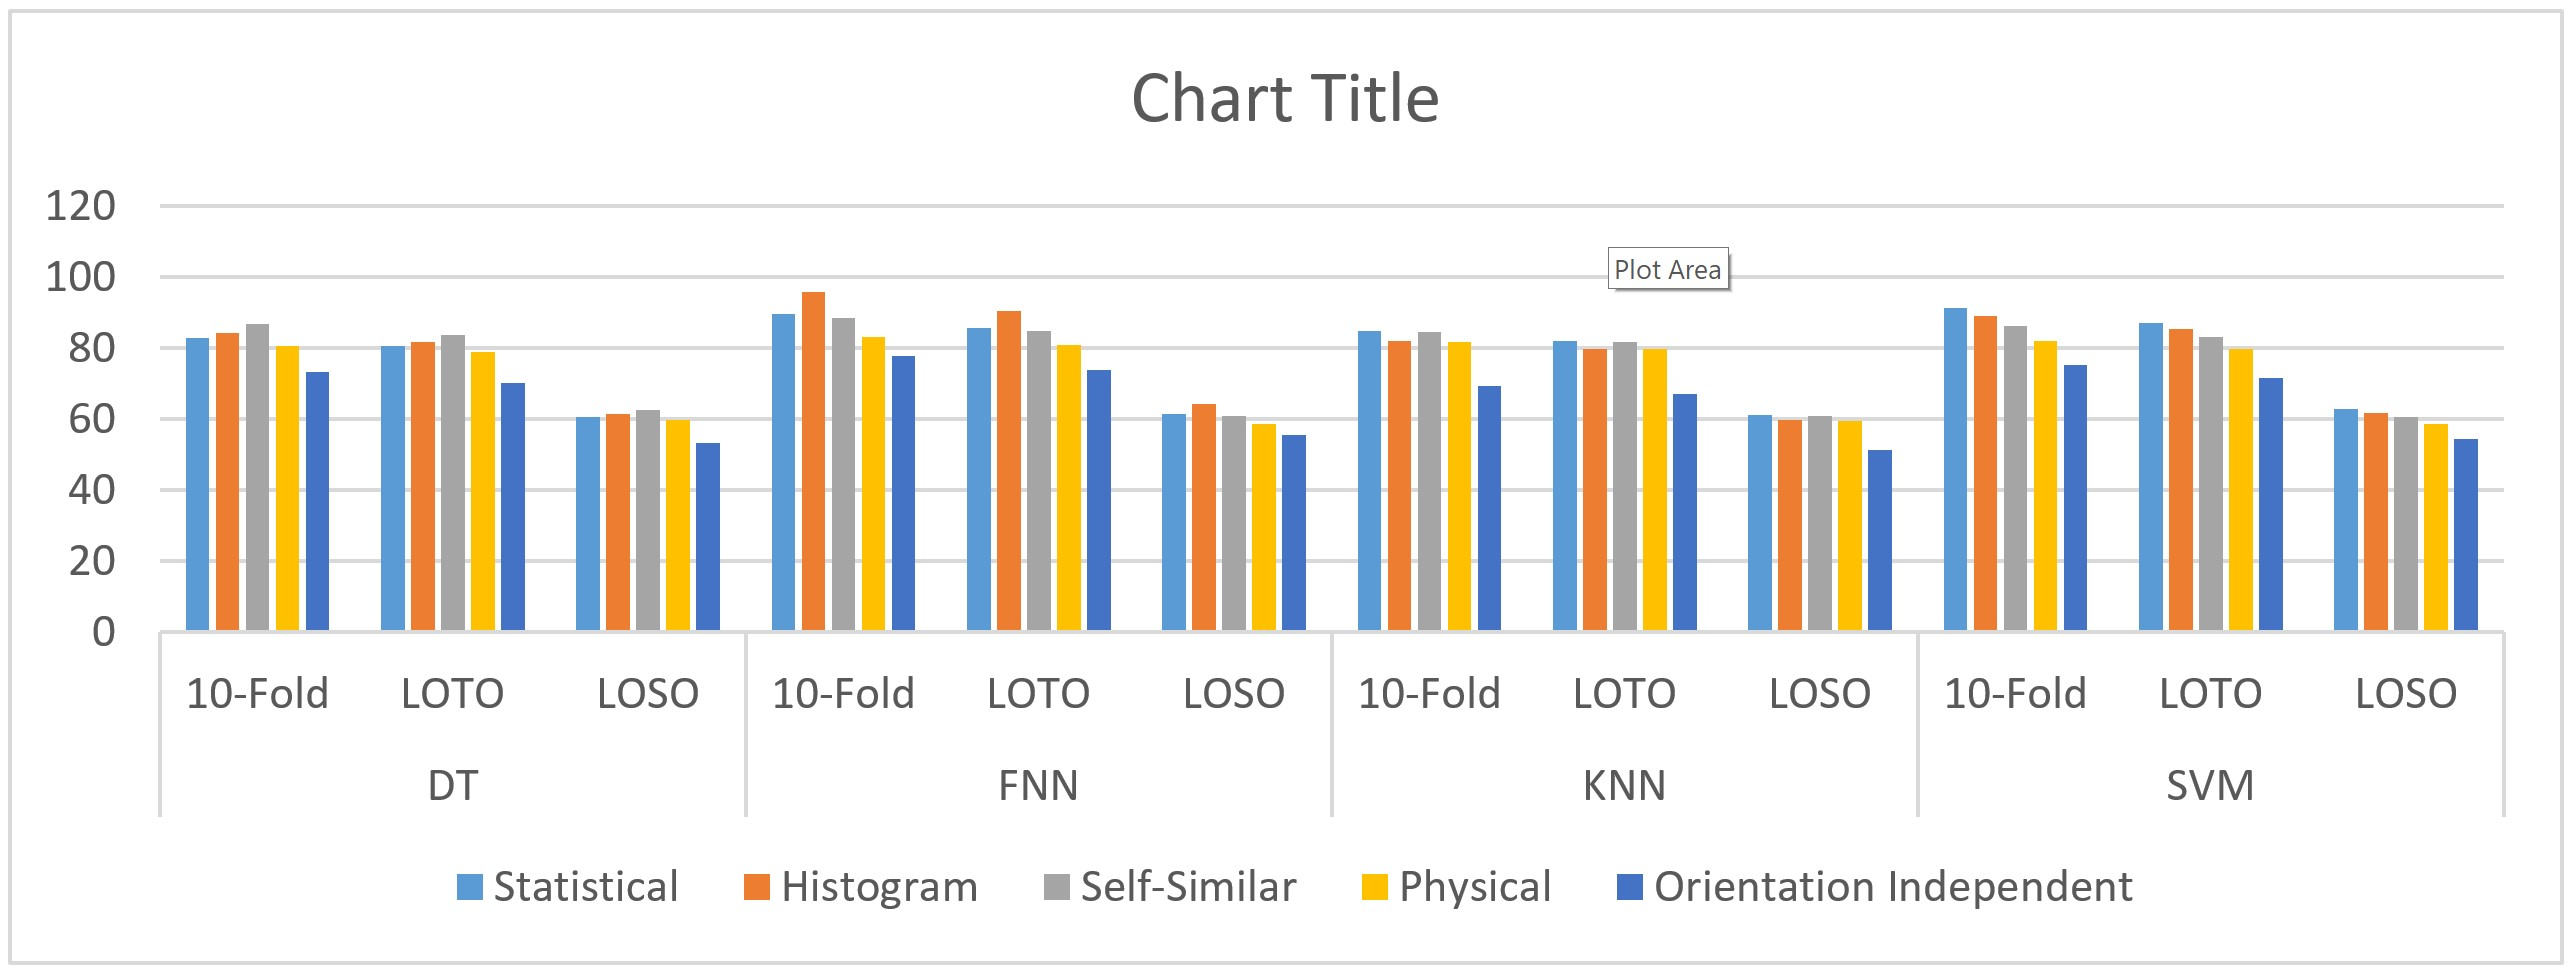
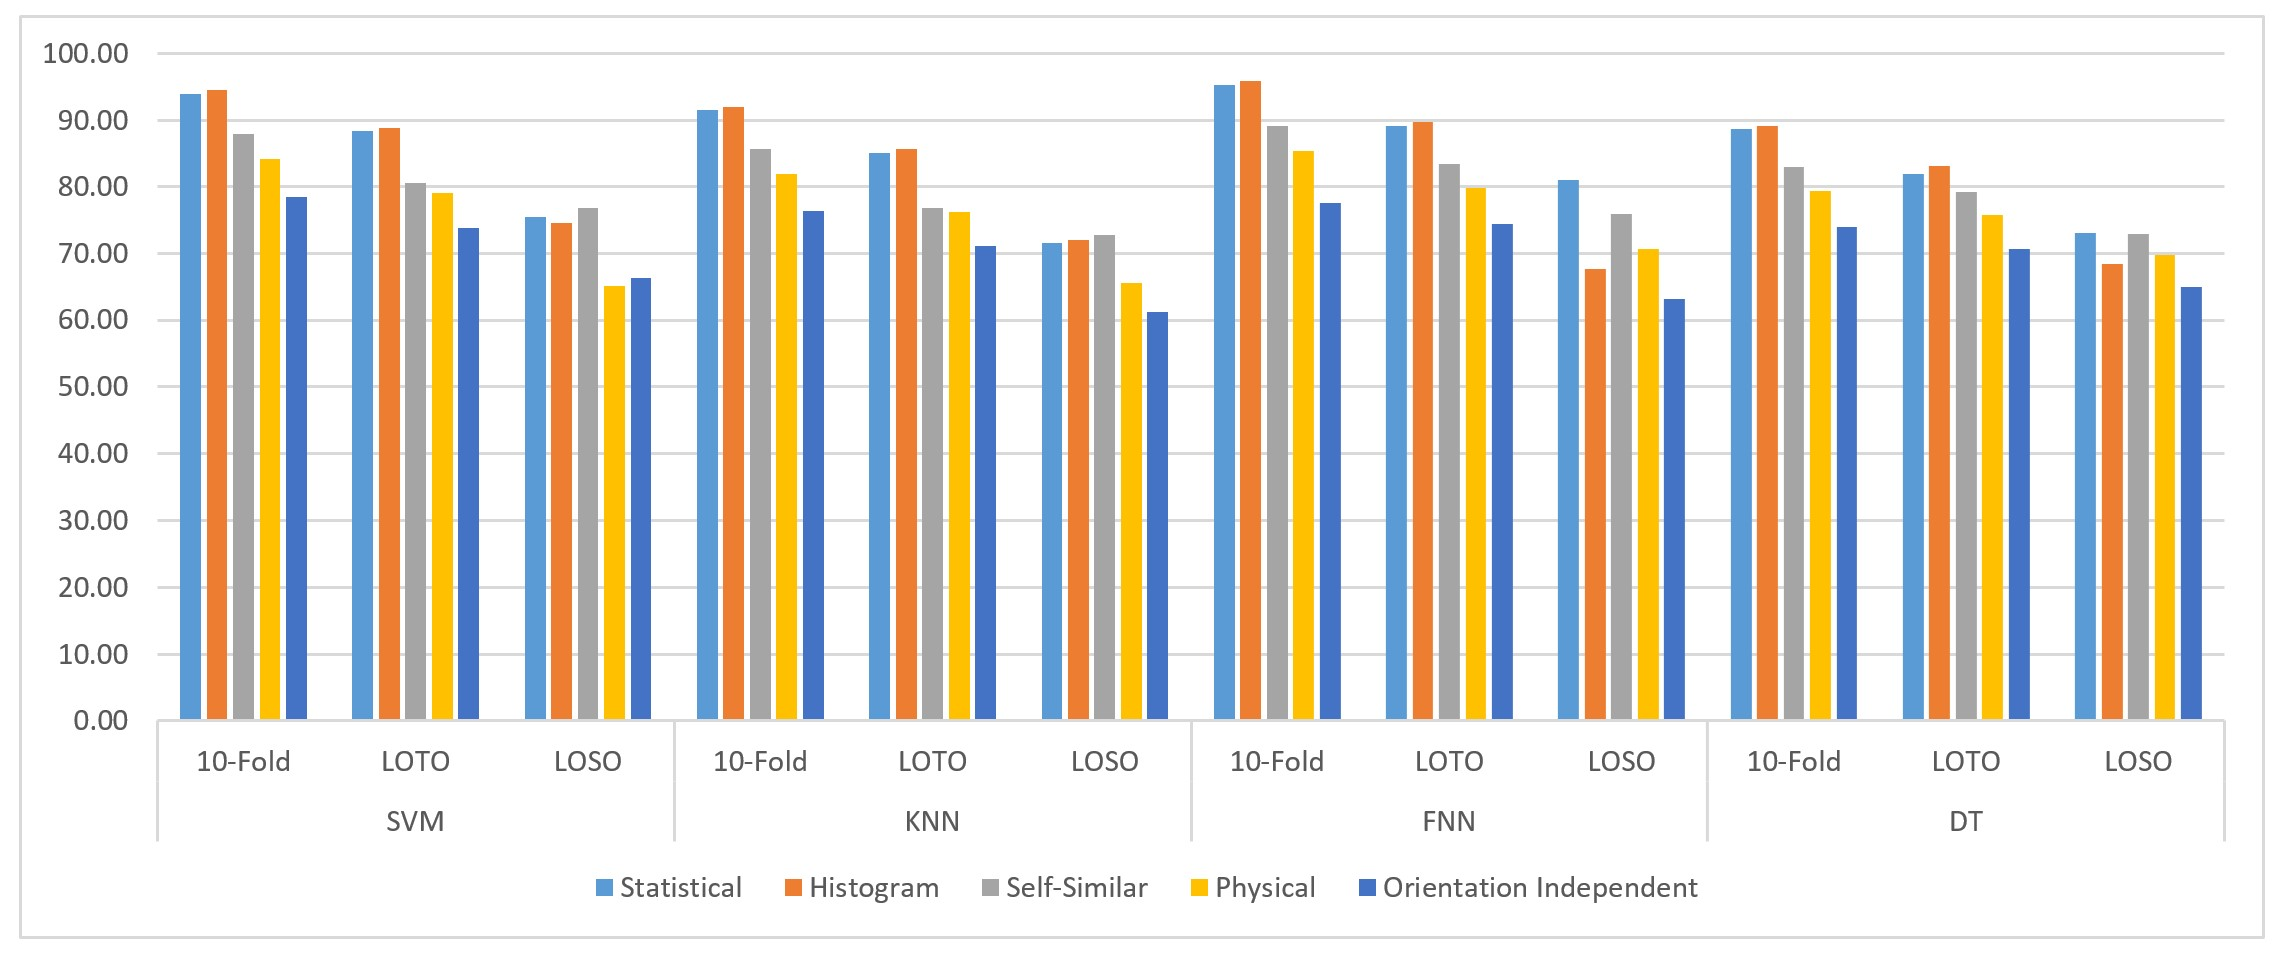
RQ3 + figures

diff --git a/MDPI_template/template.tex b/MDPI_template/template.tex
@@ -460,14 +460,13 @@ We naturally expect the accuracy achieved with the Orientation Invariant feature
 As we have seen from the results of RQ1, given a featureset, different classifiers perform differently in prediction. This is to say that choosing the right classifier may significantly improves the performance. Theoretically, there is not an automatic procedure to choose the best prediction model while considering different diversities of a problem. Therefore, in this research question we do an empirical study on performance of different classifiers in HAR. We use four popular classifiers in HAR including SVM, KNN, FNN, and DT. It is important to mention that we evaluate the model using default configuration. We are not looking for optimal setup of each classifier. Table \ref{accuracy_classifier_featureset} summarizes the classification results for each classifier over all featuresets.  From analysing the behaviour of classifiers, it emerges that \textbf{the FNN and SVM gained the best results on all featuresets, allowing to correctly recognize activities on average 89.04\% and 87.82\% of data points, respectively for FNN and SVM,} comparing with two other classifiers with 85.50\% and 82.83\% of accuracy for KNN and DT respectively. Overall, the highest accuracy achieved by the FNN is 95.89\% for Histogram features \textit{set\_B}, while the worst accuracy is 74.02\% obtained by DT. Ignoring some exceptions, classifiers follow same patterns over different featuresets. From this we can infer that impact of classifier and featureset are independent from each other on performance.
 
 \subsubsection{RQ3: How are different evaluation methods?}
-In this experiment, we asses the models by two state-of-the-art evaluation methods named Leave-One-Subject-Out cross validation and Leave-One-Trial-Out Cross validation. The goal here is to see how different ways of generating data points affect the robustness of the model. To compare with previous results, we employ K-fold validation as our baseline. Figure \ref{fig:evaluation_comparison} compares the performance of the models evaluating by 10-Fold, LOTO, and LOSO. For each classifier, results in the left columns have been obtained using 10-Fold evaluation, in middle columns using LOTO cross validation, and the right columns using LOSO cross validation. From the results, independent from featureset / classifier, it is obvious that the evaluating by LOTO or LOSO gives a lower performance (on average ~9\% and ~19\% respectively).
-We basically expect the performance achieved with k-fold to be higher than other methods because there is a significant correlation between train set and test set in this method. In other words, in K-fold, first, we generate data points from raw data (using sliding window), then, split them into test set and train set. Because of having an overlap between every consecutive data points due to using sliding window, a part of data which is used to generate a data point for train set will be used in data points for test set as well (96\% identical in the worst case scenario). However, in two other evaluation methods, training set and testing set are generated independently. So, the results are turned out from a less correlated test set thereby showing more realistic result, comparing with baseline. 
-It can be seen that there is a significant distance between results of LOTO and LOSO (~10\%). This can be due to differently performing an exercise by different subjects in LOSO. However, in LOTO, since the model is trained by the data of at least one session of each subject it returns a better result. To compare classifiers, still FNN and SVM deliver the best result on all featuresets. The reason why we prefer to compare featuresets at first level is because they make more significant changes performance over different evaluation methods, as shown in Figure \ref{fig:evaluation_comparison}.
+K-fold is one of the most popular method to evaluate the performance of a HAR model\cite{wang2019survey}. However, in a empirical study, Jordao et. al. \cite{jordao2018human} showed that the result of k-fold is capable be biased when using sliding window in generating data points. Therefore, the focus of this research question is to asses models by two state-of-the-art evaluation methods named Leave-One-Subject-Out cross validation\cite{liu2011multisensor} and Leave-One-Trial-Out Cross validation\cite{sena2018multiscale} \cite{jordao2018human}. Since these two methods are basically same as k-fold on splitting dataset into train-set and test-set, The comparison is on how different ways of generating data points (among different method) affects the robustness of the model. To compare with previous results, we employ K-fold validation as our baseline. Figure \ref{fig:evaluation_comparison} compares the performance of models evaluating by 10-Fold, LOTO, and LOSO. For each classifier, results in the left columns have been obtained using 10-Fold evaluation, in middle columns using LOTO cross validation, and the right columns using LOSO cross validation. From the results, independent from featureset / classifier, it is obvious that the evaluating by LOTO or LOSO gives a lower performance (on average ~6\% and ~16\% respectively).
+Because of having an overlap between every consecutive data points due to using sliding window, a part of data which is used to generate a data point for train set will be used in data points for test set as well (96\% identical in this case). Therefore, We basically expect the performance achieved with k-fold to be higher than other methods because there is a significant correlation between train set and test set in this method. In other words, in K-fold, first, we generate data points from raw data (using sliding window), then, split them into test set and train set. However, in two other evaluation methods, training set and testing set are generated independently. So, the results are turned out from a less correlated test set thereby showing more realistic result, comparing with baseline. It can be seen that there is a significant distance between results of LOTO and LOSO (~10\%). This can be due to differently performing an exercise by different subjects in LOSO. However, in LOTO, since the model is trained by the data of at least one session of each subject it returns a better result. To compare classifiers, still FNN and SVM deliver the best result on all featuresets. The reason why we prefer to compare featuresets at first level is because they make more significant changes performance over different evaluation methods, as shown in Figure \ref{fig:evaluation_comparison}.
 
  
 \begin{figure}[H]
 	\centering
-	\includegraphics[width=14 cm]{Definitions/images/evaluation_comparison.jpg}
+	\includegraphics[width=14 cm]{Definitions/images/evaluation_comparison_2.jpg}
 	\caption{Comparison between evaluation methods (10-Fold, LOTO, LOSO)}
 	\label{fig:evaluation_comparison}
 \end{figure} 
@@ -504,7 +503,8 @@ It can be seen that there is a significant distance between results of LOTO and 
 	\label{Table:LOSO_results}
 \end{table}
 \section{Discussion}
-\subsection{FNN Performance per activity}
+\subsection{Performance of FNN}
+In this section we focus on investigating the FNN model on Histogram bins more in detail. 
 Figure \ref{fig:fnn_hbins_confusion_matrix} shows the normalized confusion matrix for FNN model on \textit{set\_B}. One can see that activities such as Lat Pull Down and Bench Press (A1 and A2) are classified more accurately than activities such as Crunch Twist (A7) which is misclassified as Russian Twist (A8). In other words, it can be said that activities of a similar nature are more willing to get misclassified. Especially when the subject is not experienced enough on performing the exercise, recognizing the activity get harder. Addition to this the class A0 which stands for non-exercise activity is misclassified 1 percent as almost all other classes. This could be a result of variation in the distribution of data for all classes. This can also be illustrated in Figure \ref{fig:fnn_hbins_confusion_matrix} where the accuracy at first row is distributed across all the classes. Because of the uniform nature of data distribution among all classes, and because of a balanced nature, similar activities could be classified more accurately.\\
 \begin{figure}[H]
 	\centering
